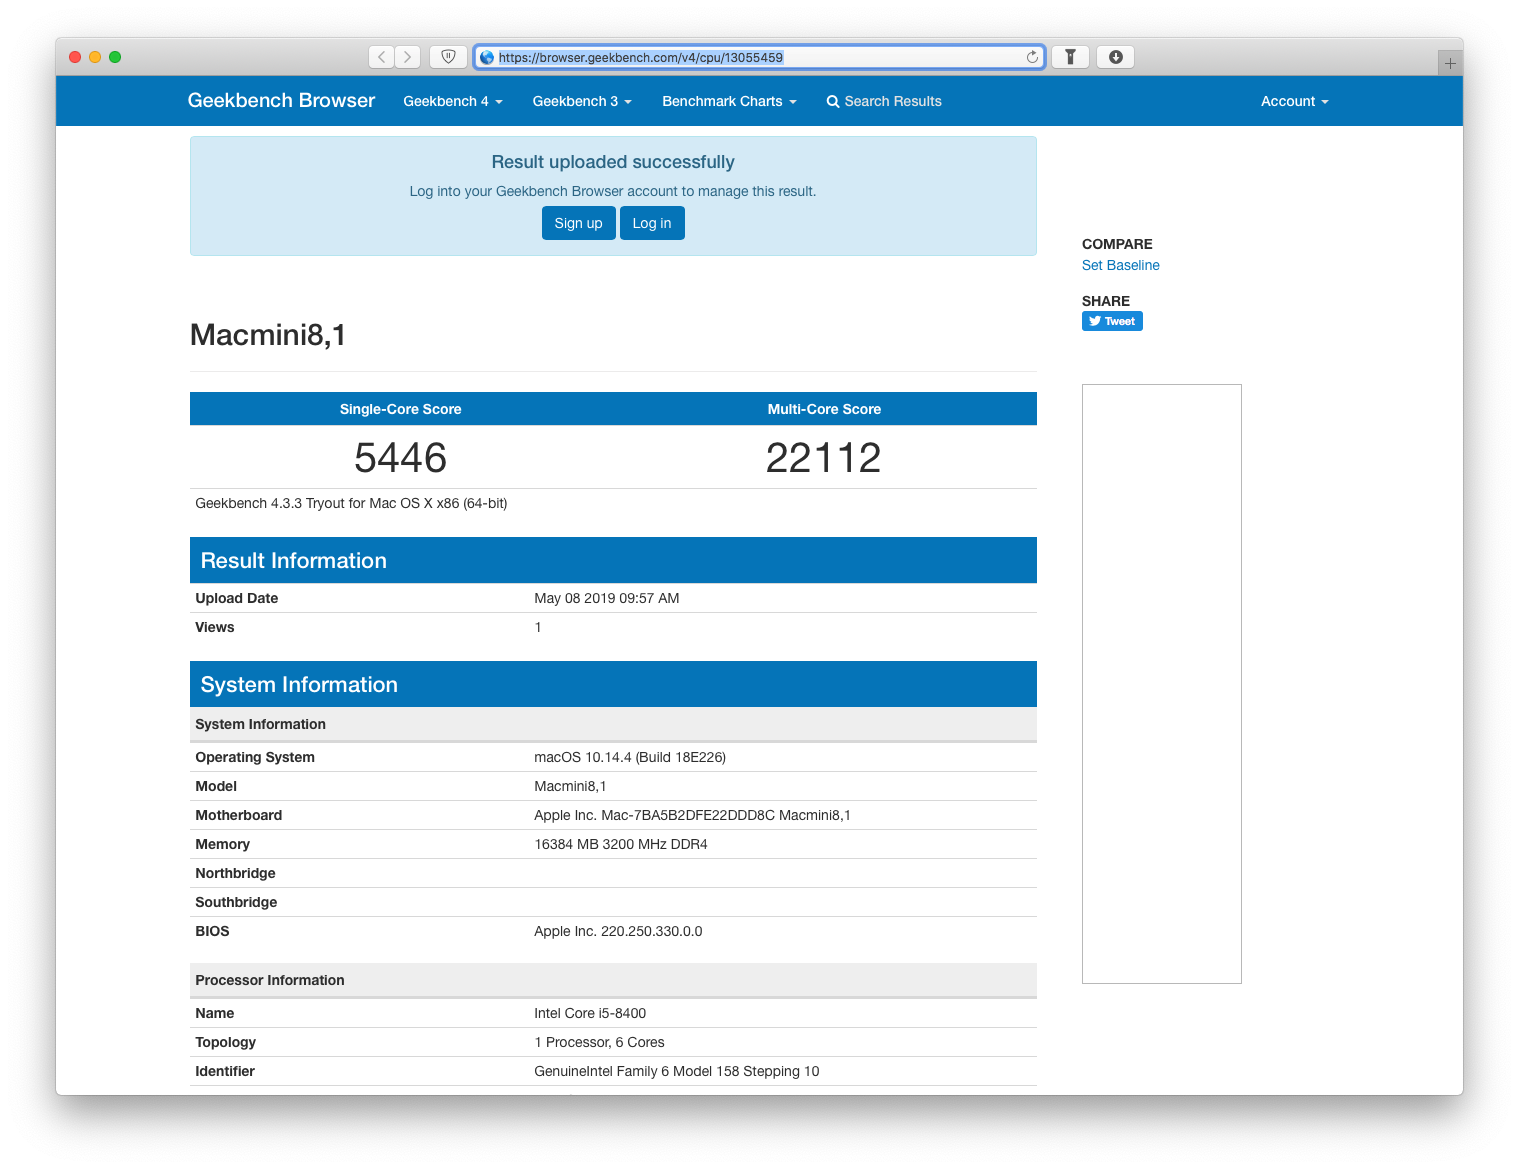
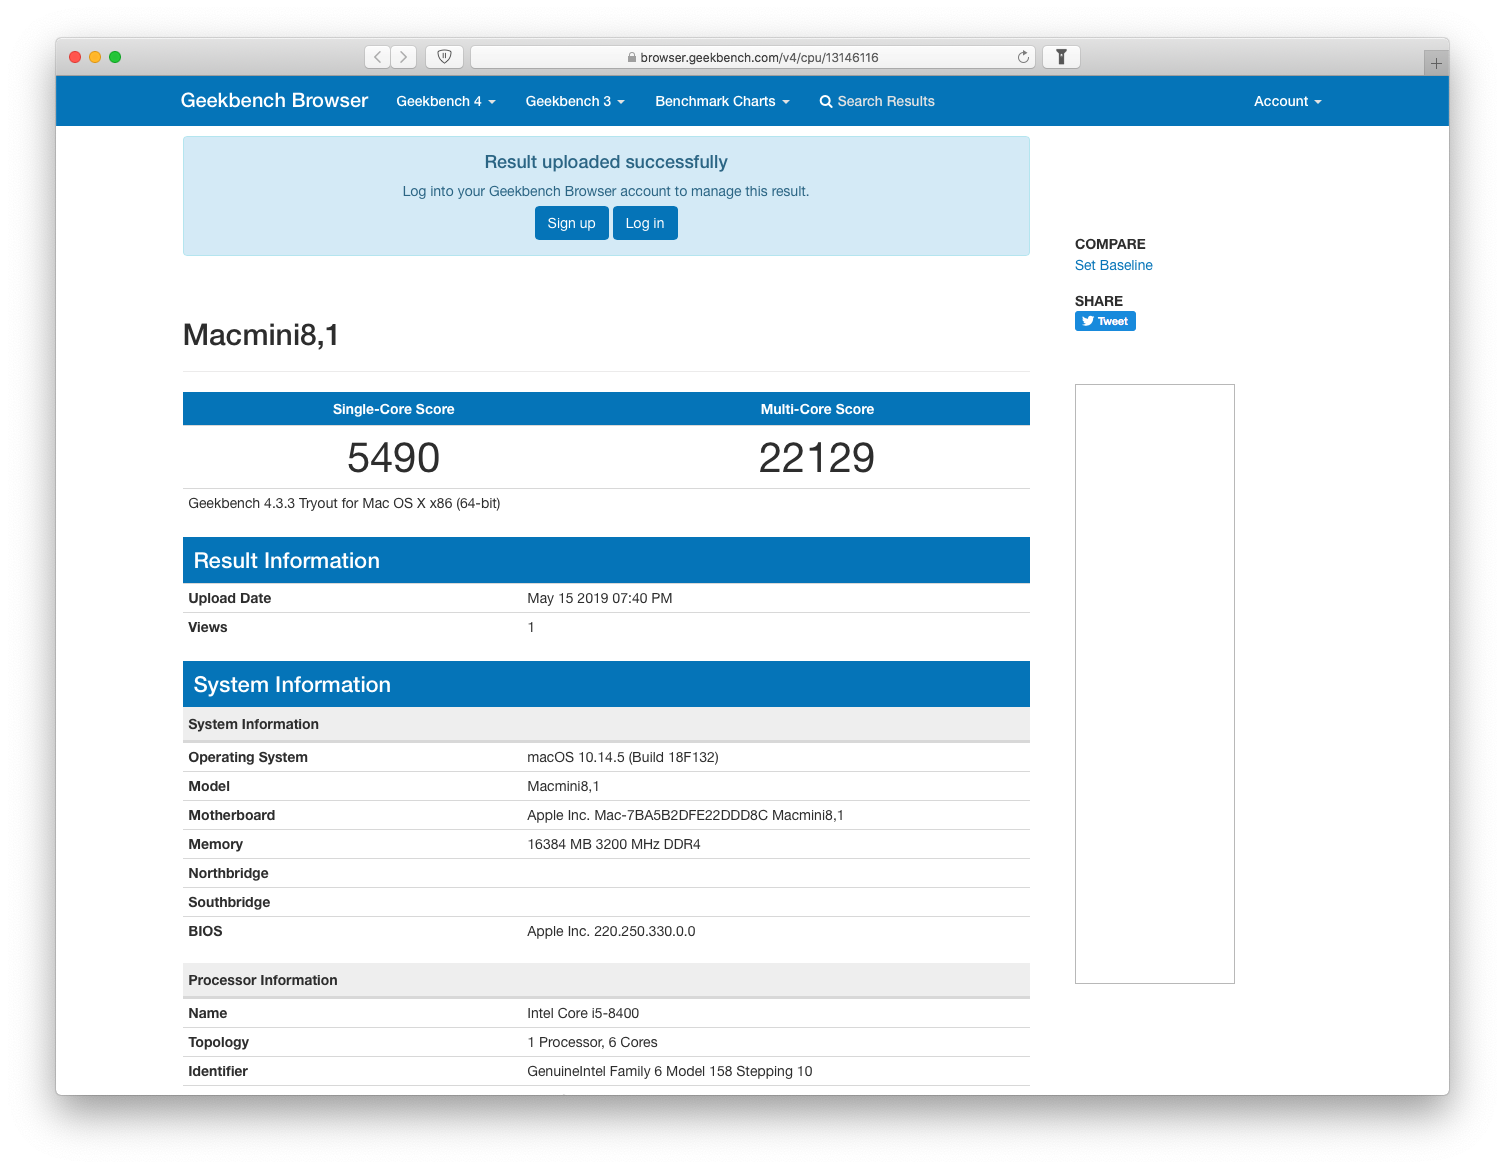
updated to 10.14.5

diff --git a/README.md b/README.md
@@ -4,7 +4,7 @@
 
 I built my Hackintosh because I was disappointed with the price of the new Mac Mini 2018. Its configuration is close to the new mid-entry Mac Mini but with more RAM (16 instead of 8 Gb). Here are the specs:
 
-- MacOS Mojave 10.14.4
+- MacOS Mojave 10.14.5
 - Intel i5-8400 (6 cores @ 2.80 Ghz, 3.80 Ghz Turbo Boost)
 - Gigabyte Z370-HD3P
 - Corsair Vengeance LPX 16Gb (2x8Gb) DDR4 2666MHz OC @ 3200 Mhz (CMK16GX4M2A2666C16)
@@ -41,6 +41,6 @@ You can find my BIOS Settings with pictures [here](BIOS/README.md).
 
 ![Geekbench](https://raw.githubusercontent.com/kinoute/Hack-Z370-HD3P-i5-8400/master/Pictures/geekbench.png)
 
-Link: https://browser.geekbench.com/v4/cpu/13055459
+Link: https://browser.geekbench.com/v4/cpu/13146116
 
 
